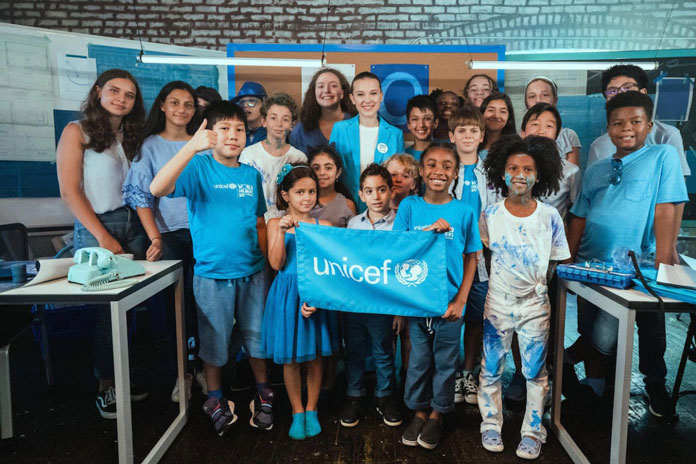
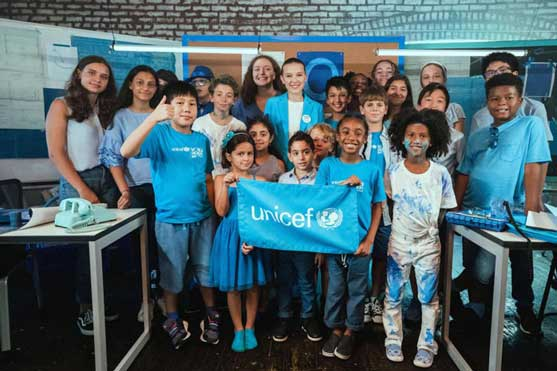
Optimised loading time

diff --git a/index.html b/index.html
@@ -9,9 +9,9 @@
   <!-- Font Awesome -->
   <link rel="stylesheet" href="fontawesome/css/all.css">
   <!-- Bootstrap core CSS -->
-  <link href="css/bootstrap.css" rel="stylesheet">
+  <link href="css/bootstrap.min.css" rel="stylesheet">
   <!-- Material Design Bootstrap -->
-  <link href="css/mdb.css" rel="stylesheet">
+  <link href="css/mdb.min.css" rel="stylesheet">
   <!-- Your custom styles (optional) -->
   <link href="style.css" rel="stylesheet">
 
@@ -114,7 +114,7 @@
       <div class="container-fluid px-xl-5 px-lg-3">
         <!--Navbar structure-->
         <a class="navbar-brand" href="#">
-          <img src="assets/icons/scmunlogo.png" id="logo" class="scmunlogo d-inline-block align-top"
+          <img src="assets/icons/scmunlogo.svg" id="logo" class="scmunlogo d-inline-block align-top"
                alt="[logo]" style="height: 30px; padding: 0;">
         </a>
         <a href="#" class="navbar-brand">
@@ -206,7 +206,7 @@
     </nav>
 
     <!--Intro Section -->
-    <div id="home" class="view jarallax" data-jarallax='{"speed": 0.3}' style="background-image: url(assets/photos/school/CafeteriaSunrise.JPG); background-repeat: no-repeat; background-size: cover; background-position: center center;">
+    <div id="home" class="view jarallax" data-jarallax='{"speed": 0.3}' style="background-image: url(assets/photos/school/CafeteriaSunriseCompressed.jpg); background-repeat: no-repeat; background-size: cover; background-position: center center;">
       <div class="mask rgba-black-slight">
         <div class="container h-100 d-flex justify-content-center align-items-center">
           <div class="row pt-5 mt-3">
@@ -217,7 +217,7 @@
                 <h5 class="text-uppercase mb-3 white-text wow fadeInDown" data-wow-delay="0.4s"><strong class="font-weight-bold">South China Model United Nations</strong></h5>
                 <h6 class="text-uppercase mb-5 white-text wow fadeInDown" data-wow-delay="0.6s"><strong class="font-weight-lighter" style="letter-spacing: .4px">Hosted By Nansha College Preparatory Academy</strong></h6>
                 <a href="#about" class="btn btn-outline-white wow fadeInDown mx-xl-3" data-wow-delay="0.2s">Learn More</a>
-                <a href="" class="btn btn-outline-white wow fadeInDown mx-xl-3" data-wow-delay="0.4s">Register</a>
+                <a href="#registrationProcess" class="btn btn-outline-white wow fadeInDown mx-xl-3" data-wow-delay="0.4s">Register</a>
               </div>
             </div>
           </div>
@@ -283,7 +283,7 @@
 
     <!--Quote Container-->
     <div class="streak streak-photo streak-sm"
-         style="background-image: url('assets/photos/school/blueCafeteria.png');">
+         style="background-image: url('assets/photos/school/blueCafeteriaCompressed.jpg');">
       <div class="flex-center mask rgba-indigo-strong">
         <div class="text-center white-text">
           <h2 class="h2-responsive mb-5 mx-3 wow fadeInDown" data-wow-duration="2s"><i class="fas fa-quote-left wow fadeInLeftBig" data-wow-duration="2s" aria-hidden="true"></i> <span class="wow fadeInUp">For a friend with an understanding heart is worth no less than a brother.</span> <i class="fas fa-quote-right wow fadeInRightBig" data-wow-duration="2s" aria-hidden="true"></i></h2>
@@ -1345,7 +1345,7 @@
     <!--Copyright -->
     <div class="footer-copyright text-center py-3">© 2019 Copyright:
       <a href="http://scmun.net"> SCMUN</a>
-      <span class="ml-5 pl-5">Hand built with faith and haste by Leon L</span>
+      <span class="ml-5 pl-5">Built with haste by Leon L</span>
     </div>
     <!--Copyright -->
 
